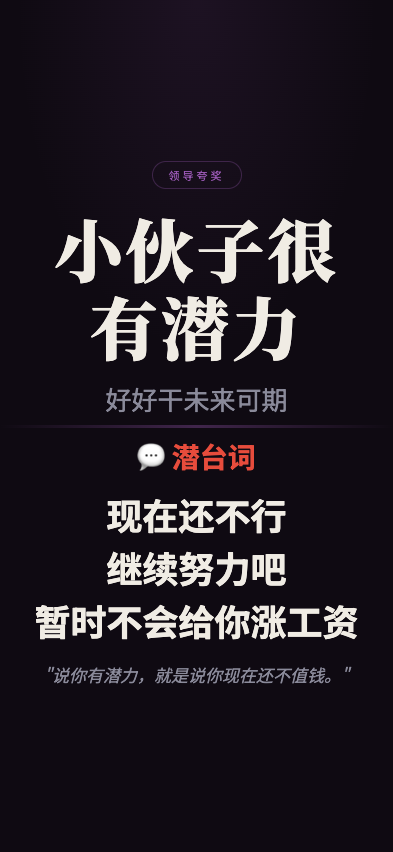
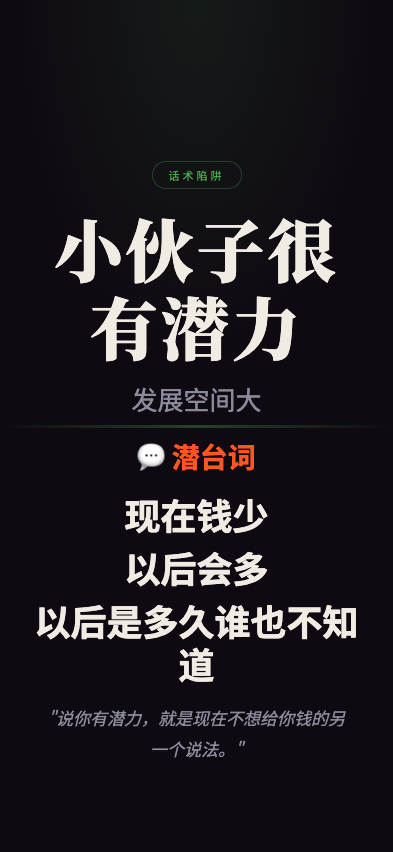
feat: 职场生存法则 screenshot - xiaohuozihenyouqianli

Changed region(s): [[0.0916, 0.5798, 0.916, 0.885], [0.2748, 0.4577, 0.7328, 0.5493], [0.4275, 0.1831, 0.5802, 0.2136]]

diff --git a/wuliao-tools/tools/biz-speak/scenes/xiaohuozihenyouqianli.html b/wuliao-tools/tools/biz-speak/scenes/xiaohuozihenyouqianli.html
@@ -10,8 +10,8 @@
     --bg: #0f0a12;
     --text: #f0ece4;
     --text-dim: #8a8a9a;
-    --gold: #9b59b6;
-    --red: #e74c3c;
+    --gold: #4caf50;
+    --red: #ff5722;
   }
   * { margin:0; padding:0; box-sizing:border-box; }
   html, body { width:100%; height:100%; overflow:hidden; }
@@ -24,11 +24,11 @@
   }
   body::before {
     content:''; position:absolute; top:0; left:0; right:0; height:45%;
-    background:radial-gradient(ellipse at 50% 0%, rgba(155,89,182,0.1) 0%, transparent 65%);
+    background:radial-gradient(ellipse at 50% 0%, rgba(76,175,80,0.1) 0%, transparent 65%);
     pointer-events:none; z-index:0;
   }
   .top { flex:1; display:flex; flex-direction:column; align-items:center; justify-content:flex-end; padding:4px 28px 8px; position:relative; z-index:1; }
-  .tag { font-size:11px; letter-spacing:3px; color:var(--gold); border:1px solid rgba(155,89,182,0.3); padding:5px 16px; border-radius:50px; margin-bottom:20px; }
+  .tag { font-size:11px; letter-spacing:3px; color:var(--gold); border:1px solid rgba(76,175,80,0.3); padding:5px 16px; border-radius:50px; margin-bottom:20px; }
   .main-title { font-family:'Noto Serif SC'; font-size:68px; font-weight:900; text-align:center; line-height:1.15; letter-spacing:3px; min-width:0; overflow-wrap:break-word; max-width:92%; }
   .sub-title { font-size:26px; color:var(--text-dim); text-align:center; margin-top:14px; }
   .divider { width:100%; height:3px; background:linear-gradient(90deg,transparent,var(--gold),transparent); opacity:0.35; flex-shrink:0; position:relative; z-index:1; }
@@ -41,19 +41,19 @@
 </head>
 <body>
   <div class="top">
-    <div class="tag">领导夸奖</div>
+    <div class="tag">话术陷阱</div>
     <div class="main-title">小伙子很有潜力</div>
-    <div class="sub-title">好好干未来可期</div>
+    <div class="sub-title">发展空间大</div>
   </div>
   <div class="divider"></div>
   <div class="bottom">
     <div class="truth-label">💬 潜台词</div>
     <div class="truth-lines">
-      <div class="truth-line">现在还不行</div>
-      <div class="truth-line">继续努力吧</div>
-      <div class="truth-line">暂时不会给你涨工资</div>
+      <div class="truth-line">现在钱少</div>
+      <div class="truth-line">以后会多</div>
+      <div class="truth-line">以后是多久谁也不知道</div>
     </div>
-    <div class="quote">"说你有潜力，就是说你现在还不值钱。"</div>
+    <div class="quote">"说你有潜力，就是现在不想给你钱的另一个说法。"</div>
   </div>
 </body>
 </html>
